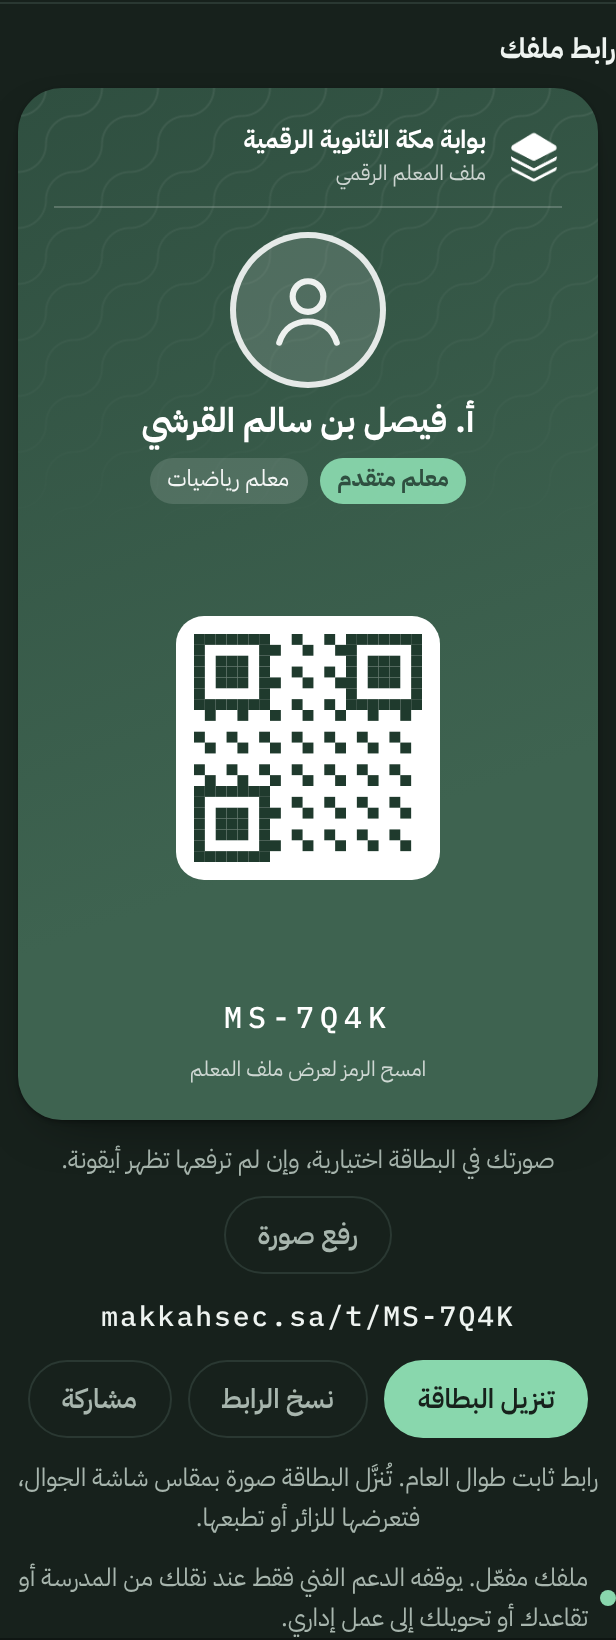
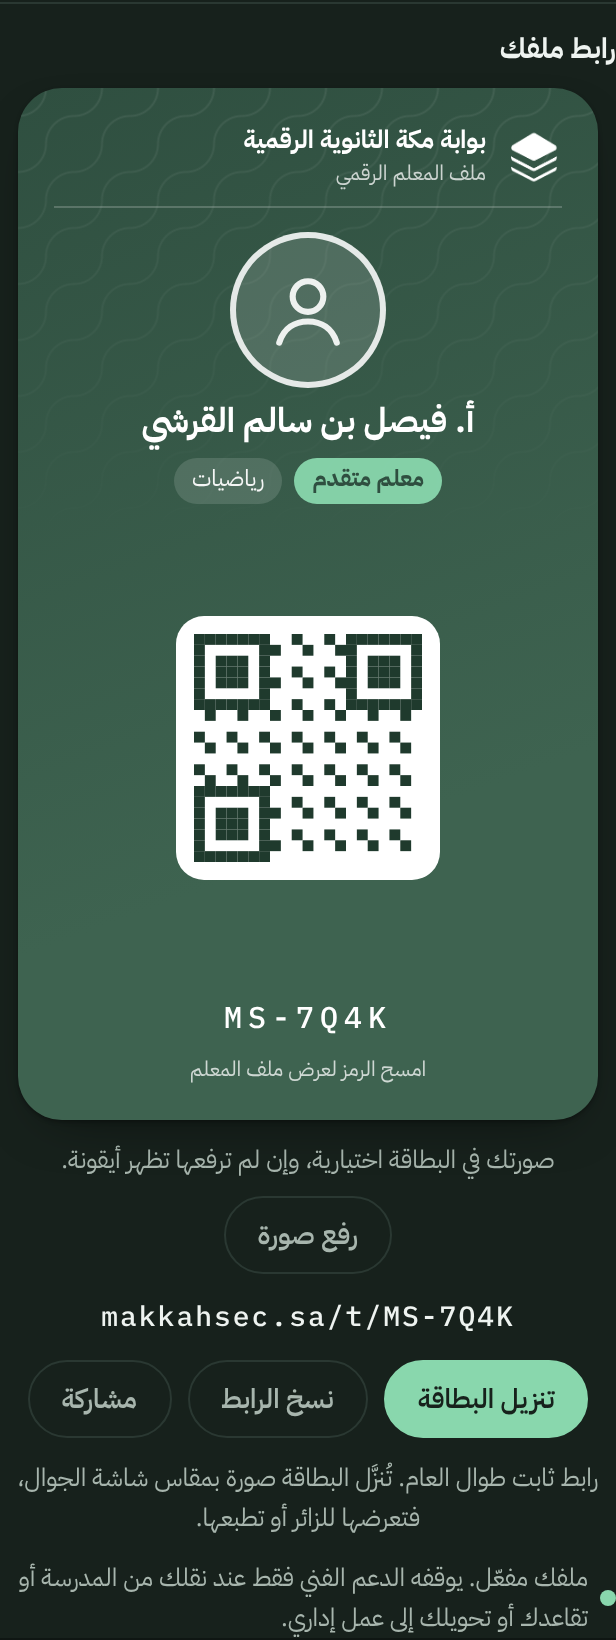
ملف المعلم الرقمي: التخصص في بطاقة الرمز دون كلمة معلم
Claude-Session: https://claude.ai/code/session_01QzqWfYFyUodUKxUMNwYvZ2

Changed region(s): [[0.2468, 0.2799, 0.7711, 0.311]]

diff --git a/docs/teacher-digital-file/prototype.html b/docs/teacher-digital-file/prototype.html
@@ -793,7 +793,7 @@ section.sec { display: grid; gap: 12px; scroll-margin-top: 64px; }
[1 lines of base64/hex data omitted]
           <div class="id-photo" id="idPhoto"><svg viewBox="0 0 24 24" fill="none" stroke="currentColor" stroke-width="1.6" stroke-linecap="round" stroke-linejoin="round"><circle cx="12" cy="8.5" r="4"/><path d="M4.5 20.5c1.2-3.8 4.1-5.5 7.5-5.5s6.3 1.7 7.5 5.5"/></svg></div>
           <div class="id-name">أ. فيصل بن سالم القرشي</div>
-          <div class="id-meta"><span class="id-rank" id="idRank">معلم متقدم</span><span>معلم رياضيات</span></div>
+          <div class="id-meta"><span class="id-rank" id="idRank">معلم متقدم</span><span>رياضيات</span></div>
           <div class="id-qr" id="qr" aria-label="رمز QR للملف"></div>
           <div class="id-code">MS-7Q4K</div>
           <div class="id-foot">امسح الرمز لعرض ملف المعلم</div>

diff --git a/docs/teacher-digital-file/handoff.md b/docs/teacher-digital-file/handoff.md
@@ -135,7 +135,7 @@
 6. **قراءة في ٣٠ ثانية:** اختيار ٣ جمل.
 7. **إنجازات أخرى:** إنجاز وتفصيل اختياري، يُضاف إلى قسم الإنجازات.
 8. **توزيع المنهج:** رفع الملف، ثم بطاقات الأسابيع المقروءة للمراجعة (الأسبوع الحالي مميّز).
-9. **رابط ملفك:** **بطاقة الرمز** بهوية البوابة وبمقاس شاشة الجوال (٩:١٦، تُنزَّل صورة ١٠٨٠×١٩٢٠): شعار البوابة واسمها، وصورة المعلم (اختيارية، وإلا أيقونة شخص)، واسمه، ورتبته (إن أدخلها)، وتخصصه، ورمز QR، والكود (مثل MS-7Q4K)، و«امسح الرمز لعرض ملف المعلم». تأخذ لون الملف الذي اختاره المعلم. تحتها: «رفع صورة» و«إزالة الصورة»، والرابط، وأزرار «تنزيل البطاقة» و«نسخ الرابط» و«مشاركة»، وسطر «ملفك مفعّل، يوقفه الدعم الفني فقط…».
+9. **رابط ملفك:** **بطاقة الرمز** بهوية البوابة وبمقاس شاشة الجوال (٩:١٦، تُنزَّل صورة ١٠٨٠×١٩٢٠): شعار البوابة واسمها، وصورة المعلم (اختيارية، وإلا أيقونة شخص)، واسمه، ورتبته (إن أدخلها)، وتخصصه وحده دون كلمة «معلم» (مثل «رياضيات»)، ورمز QR، والكود (مثل MS-7Q4K)، و«امسح الرمز لعرض ملف المعلم». تأخذ لون الملف الذي اختاره المعلم. تحتها: «رفع صورة» و«إزالة الصورة»، والرابط، وأزرار «تنزيل البطاقة» و«نسخ الرابط» و«مشاركة»، وسطر «ملفك مفعّل، يوقفه الدعم الفني فقط…».
 10. **من اطّلع على ملفك:** سجل الزوار.
 - **مكان اللوحة: صفحة مستقلة في البوابة للمعلم** ✅، فيها زر «معاينة كما يراها الزائر». التقرير الذي يفتحه الزائر لا يحوي شيئًا من اللوحة. (في العيّنة تظهر اللوحة أسفل التقرير للتوضيح فقط.)
 
